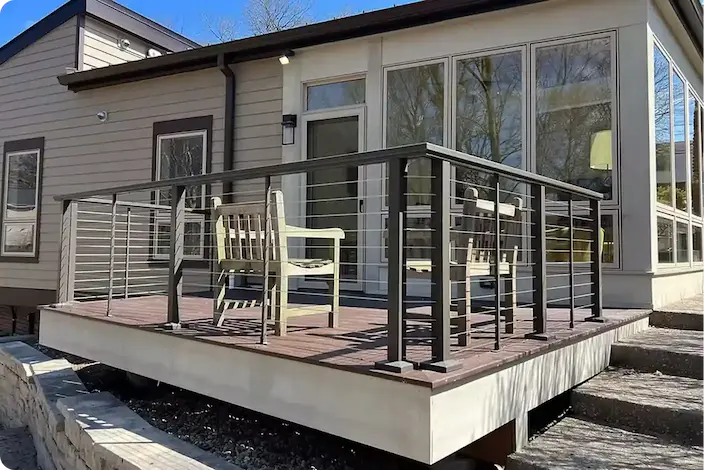
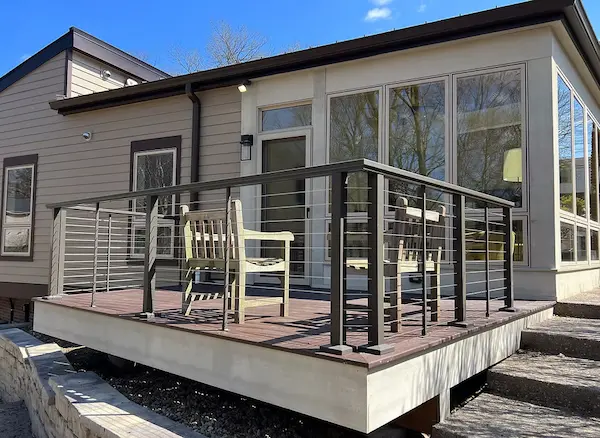
fix(SEO): update home page and services seo (this should work?)

diff --git a/src/assets/data/projects.ts b/src/assets/data/projects.ts
@@ -6,6 +6,7 @@ export interface ProjectType {
   id: string
   title: string
   coverImgSrc: string
+  coverImgSrcMobile: string
   coverImgAlt: string
   projectImgs: ProjectImgType[]
   isFeatured: boolean
@@ -16,6 +17,7 @@ export const projectsData = [
     id: '9d405c1c-31f8-488d-a32a-e2baf7de7e1e',
     title: 'Deck Addition',
     coverImgSrc: '/images/projects/deck_addition_1/cover.webp',
+    coverImgSrcMobile: '/images/projects/deck_addition_1/cover_mobile.webp',
     coverImgAlt: 'Wooden deck addition on a backyard home',
     projectImgs: [
       {
@@ -53,6 +55,7 @@ export const projectsData = [
     id: '04113440-3ce1-4526-90a7-a923b24d6b6c',
     title: 'Bathroom remodel',
     coverImgSrc: '/images/projects/bathroom_remodel_1/cover.webp',
+    coverImgSrcMobile: '/images/projects/bathroom_remodel_1/cover_mobile.webp',
     coverImgAlt: 'Modern tiled bathroom with bathtub',
     projectImgs: [
       {
@@ -86,6 +89,8 @@ export const projectsData = [
     id: '4c196b7e-e8a0-4e10-ad5d-9cfdec1e9947',
     title: 'Basement Finishing',
     coverImgSrc: '/images/projects/basement_finishing_1/cover.webp',
+    coverImgSrcMobile:
+      '/images/projects/basement_finishing_1/cover_mobile.webp',
     coverImgAlt: 'Modern finished basement',
     projectImgs: [
       {
@@ -99,6 +104,7 @@ export const projectsData = [
     id: '0e9229b9-ffa3-47a3-84c6-744de5d4d214',
     title: 'Bay window finishing',
     coverImgSrc: '/images/projects/bay_window_1/cover.webp',
+    coverImgSrcMobile: '/images/projects/bay_window_1/cover_mobile.webp',
     coverImgAlt: 'Bay window',
     projectImgs: [
       {
@@ -128,6 +134,7 @@ export const projectsData = [
     id: '247a45ca-95c5-43bc-a4eb-8ce24d59aea6',
     title: 'Stair Rail Installation',
     coverImgSrc: '/images/projects/stair_rail_1/cover.webp',
+    coverImgSrcMobile: '/images/projects/stair_rail_1/cover_mobile.webp',
     coverImgAlt: 'Staircase railing installation',
     projectImgs: [
       {
@@ -149,6 +156,7 @@ export const projectsData = [
     id: '2cca0da1-ef75-441e-b9e7-c1d53d40762c',
     title: 'Cabinet Installation',
     coverImgSrc: '/images/projects/cabinet_1/cover.webp',
+    coverImgSrcMobile: '/images/projects/cabinet_1/cover_mobile.webp',
     coverImgAlt: 'Cabinet installation',
     projectImgs: [
       {

diff --git a/src/components/Pages/Home/Hero/Hero.tsx b/src/components/Pages/Home/Hero/Hero.tsx
@@ -13,13 +13,13 @@ const Hero = () => {
             </h2>
           </div>
           <div className={`${styles.image} image`}>
-            <img
-              srcSet='/images/home/hero_mobile.webp 500w, 
-          /images/home/hero.webp 1920w'
-              sizes='(max-width: 500px) 100vw, 1920px'
-              src='/images/home/hero.webp'
-              alt='Finished Backyard Deck'
-            />
+            <picture>
+              <source
+                media='(max-width: 499px)'
+                srcSet='/images/home/hero_mobile.webp'
+              />
+              <img src='/images/home/hero.webp' alt='Finished Backyard Deck' />
+            </picture>
           </div>
           <div className={styles.bottom_text}>
             <p className='section-description'>

diff --git a/src/components/Common/ProjectsList/ProjectsList.tsx b/src/components/Common/ProjectsList/ProjectsList.tsx
@@ -21,11 +21,17 @@ const ProjectsList = ({
           key={project.id}
         >
           <div className={`${styles.image} image`}>
-            <img
-              src={project.coverImgSrc}
-              alt={project.coverImgAlt}
-              loading={lazy ? 'lazy' : 'eager'}
-            />
+            <picture>
+              <source
+                media='(max-width: 499px)'
+                srcSet={project.coverImgSrcMobile}
+              />
+              <img
+                src={project.coverImgSrc}
+                alt={project.coverImgAlt}
+                loading={lazy ? 'lazy' : 'eager'}
+              />
+            </picture>
           </div>
           <div className={styles.title_container}>
             <h2>{project.title}</h2>

diff --git a/src/components/Pages/Home/Hero/Hero.module.scss b/src/components/Pages/Home/Hero/Hero.module.scss
@@ -27,12 +27,10 @@
       width: 100%;
       aspect-ratio: 3/2;
       img {
-        position: absolute;
-        top: 0;
-        left: 0;
         width: 100%;
         height: 100%;
         object-fit: cover;
+        display: block;
       }
     }
 
